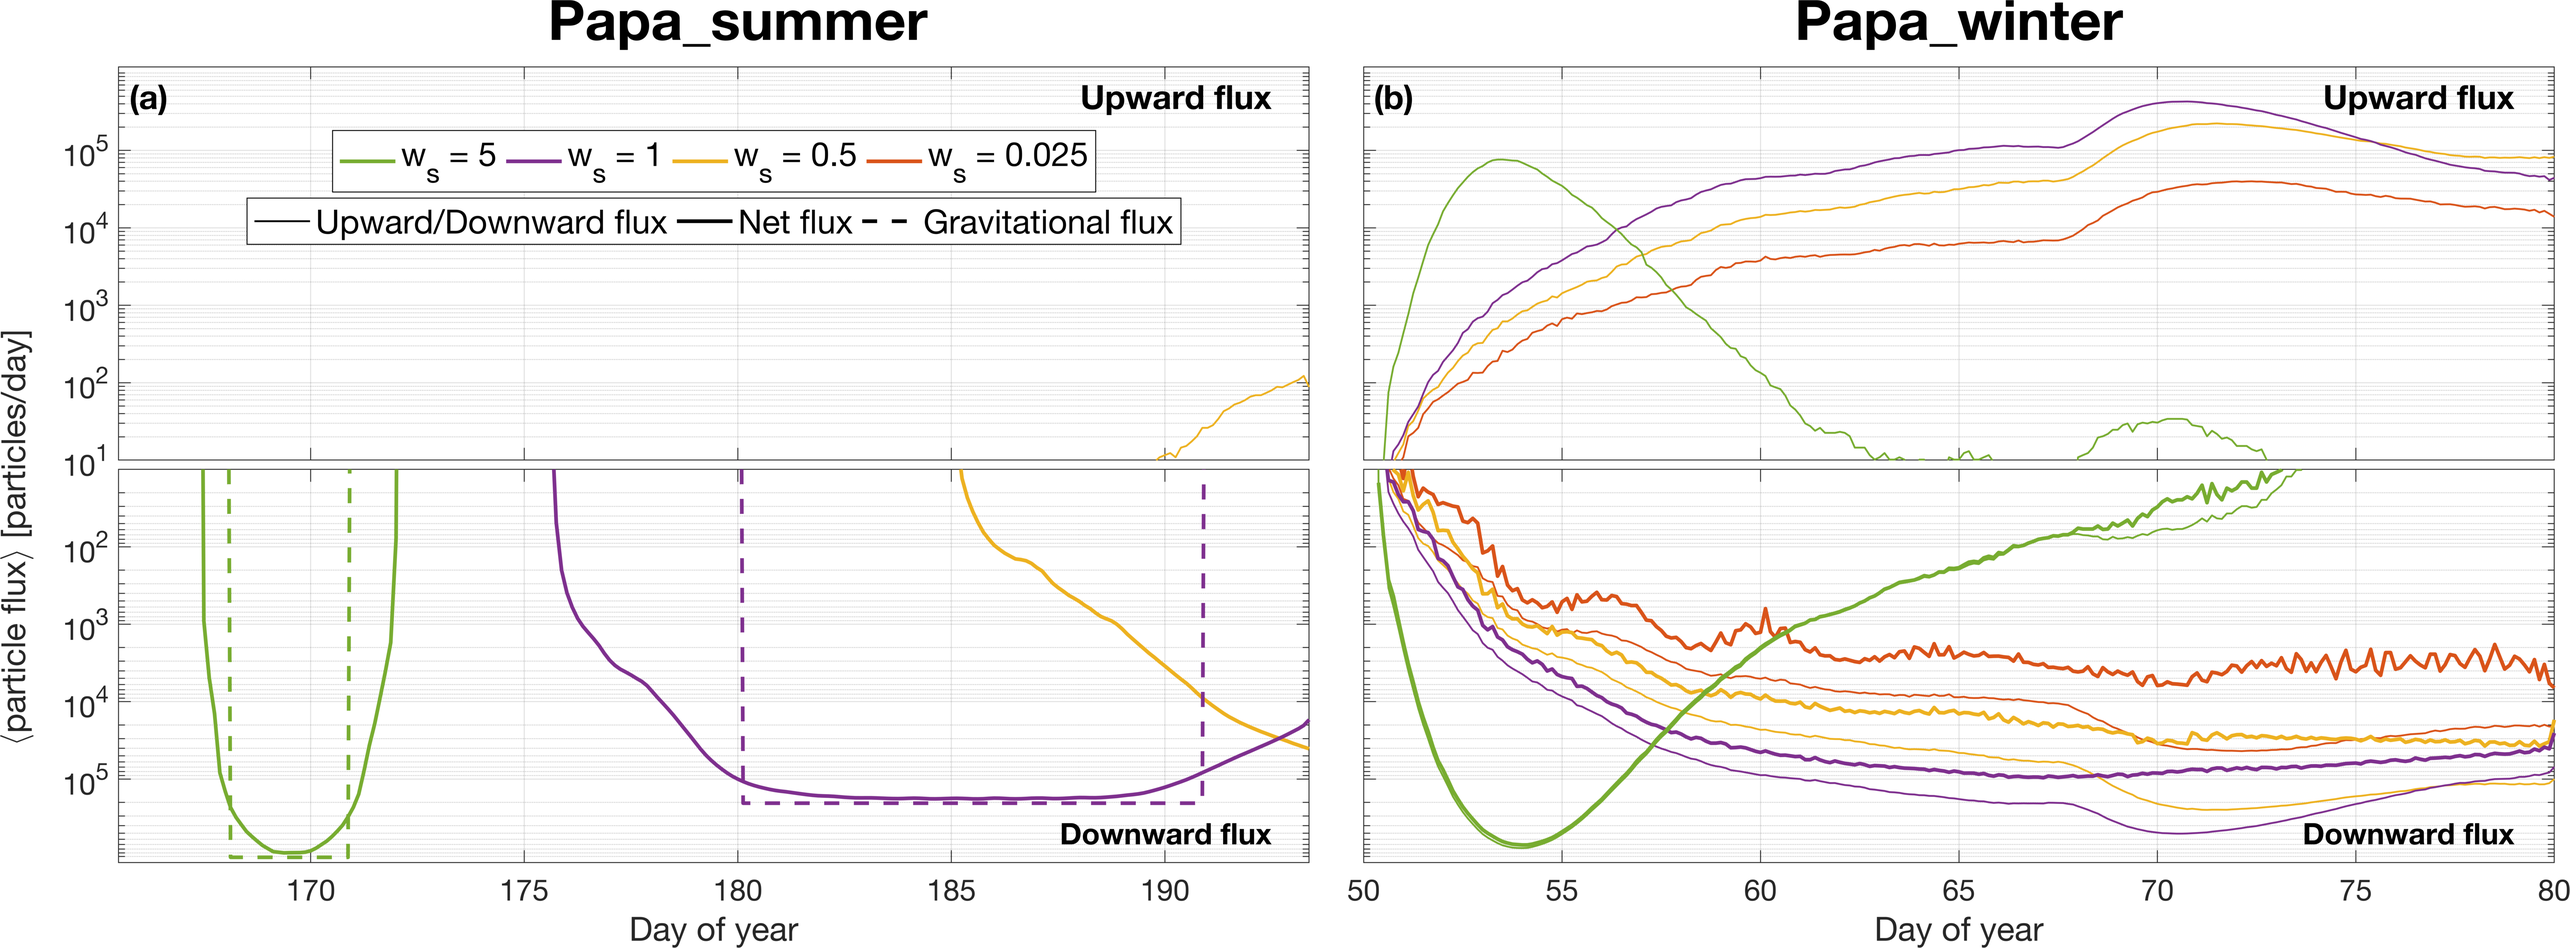
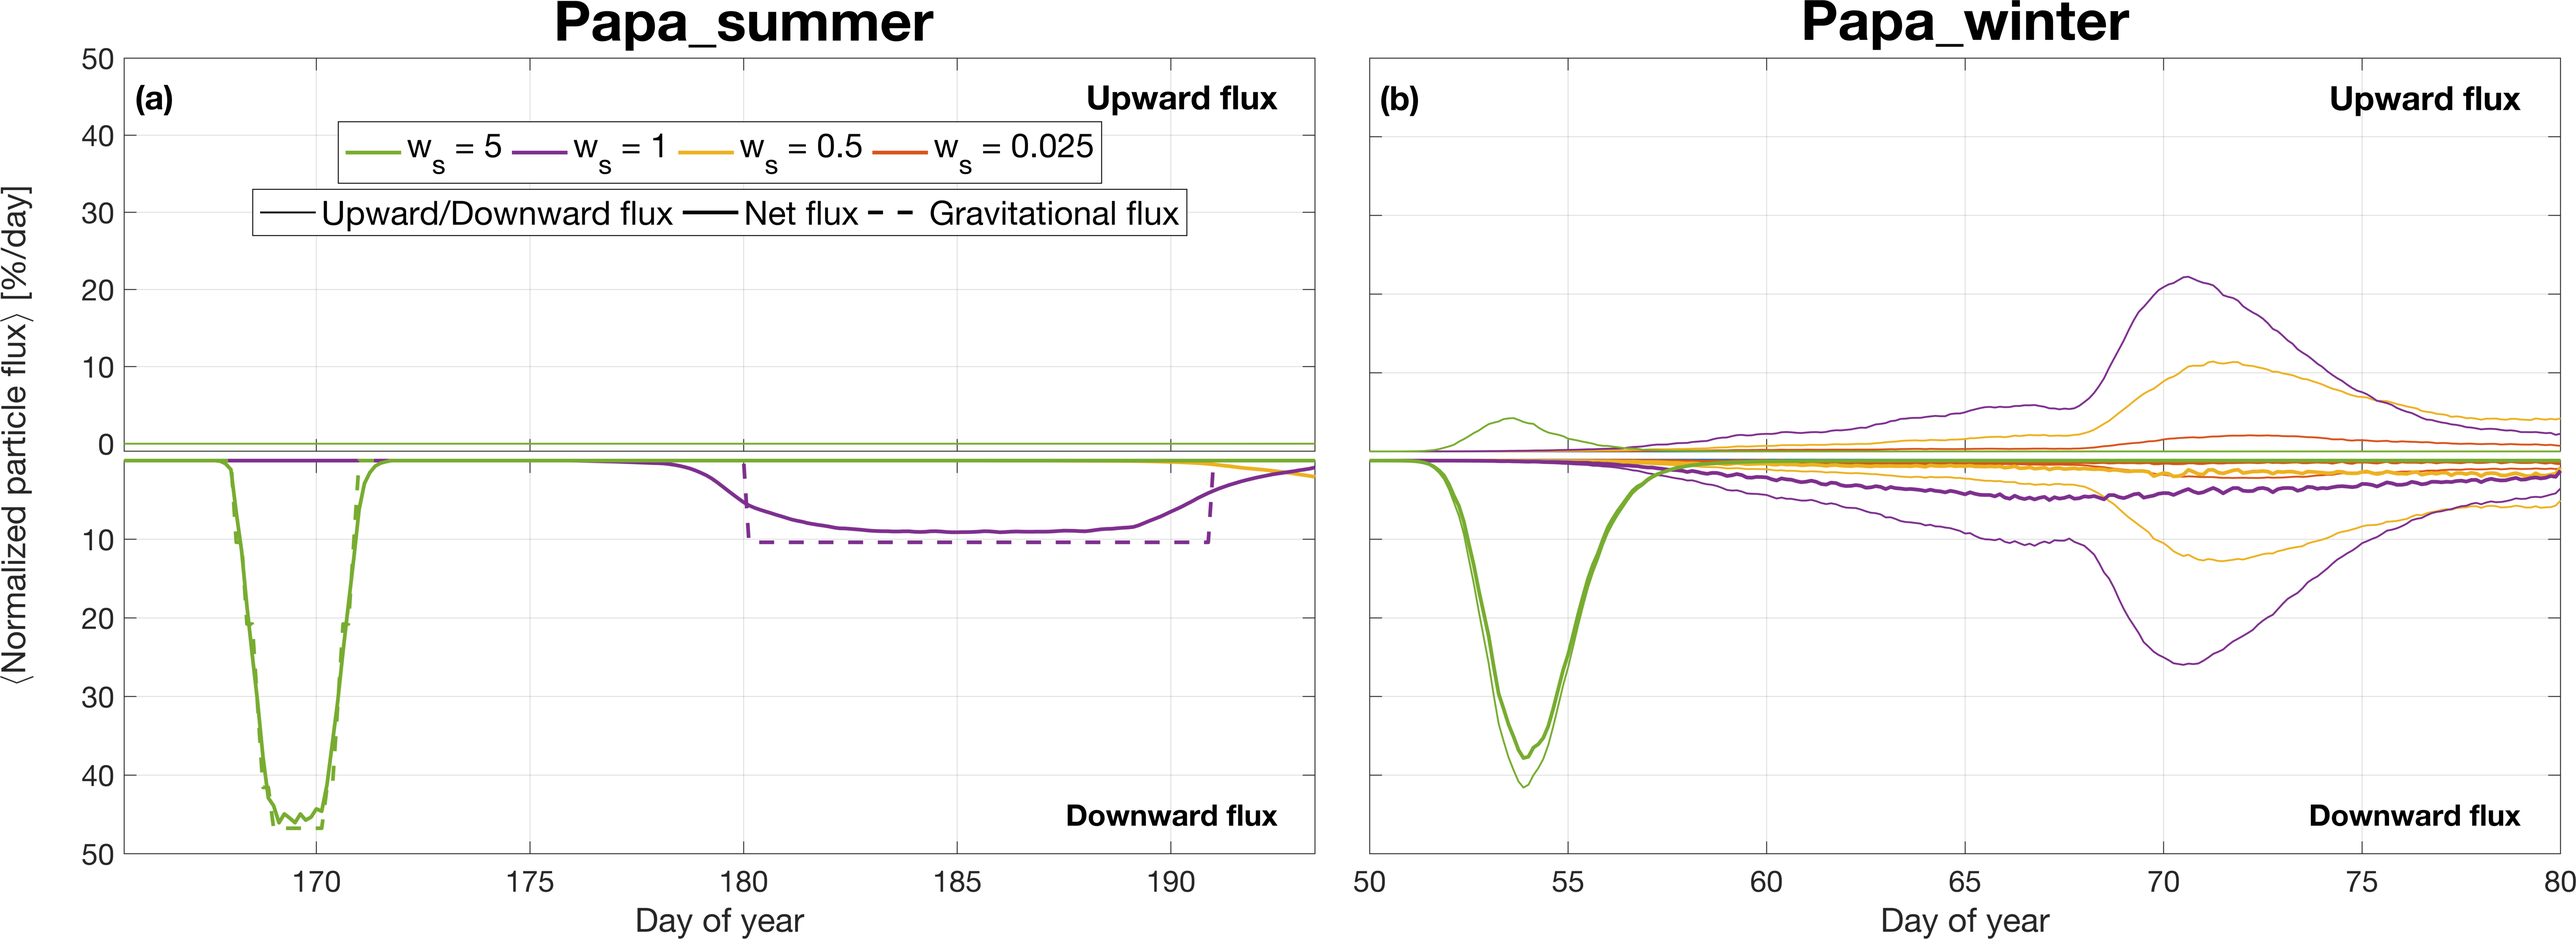
Even newer Fig6
paticle fluxes are normalized by total number of particles to avoid discussion about spectral slope.

diff --git a/figures/code/Fig6_particle_export_flux.m b/figures/code/Fig6_particle_export_flux.m
@@ -47,8 +47,7 @@ for ii = 1:5
     clearvars filenameup delimiter formatSpec fileID dataArray ans
 end; clear ii path
 
-flux_meso_down(flux_meso_down==0) = 1e-10;
-flux_meso_up(flux_meso_up==0) = 1e-10;
+
 %% Compute export anomaly based on expected export computed from sinking
 % velocity and distance from 100m horizon
 
@@ -59,14 +58,13 @@ for ws = [0.025 0.5 1 5]
         ind = find(t0+zz/ws<=time_meso,1,'first');
         grav_flux_meso(ind,wscounter) = N0./11./0.125;
     end; clear zz ind
-    grav_flux_meso(:,wscounter) = smooth(grav_flux_meso(:,wscounter),8);
-    a =find(grav_flux_meso(:,wscounter)~=0,1,'first');
-    b = find(grav_flux_meso(:,wscounter)~=0,1,'last');
-    grav_flux_meso(a:b,wscounter) = max(grav_flux_meso(a:b,wscounter));
+    %grav_flux_meso(:,wscounter) = smooth(grav_flux_meso(:,wscounter),12);
+    %a =find(grav_flux_meso(:,wscounter)~=0,1,'first');
+    %b = find(grav_flux_meso(:,wscounter)~=0,1,'last');
+    %grav_flux_meso(a:b,wscounter) = max(grav_flux_meso(a:b,wscounter));
     wscounter = wscounter +1;
 end; clear ws wscounter a b
 
-grav_flux_meso(grav_flux_meso==0) = 1e-10;
 
 %% Then do Papa_submeso
 N0 = 1971717;
@@ -140,37 +138,42 @@ cmap = [0    0.4470    0.7410
 fullfigure
 subplot(3,2,1)
 for ii = 1:5
-    plot(time_meso+105,smooth(flux_meso_up(:,ii)./unique(diff(time_meso)),12),'color',cmap(ii,:),'linewidth',1);
+    plot(time_meso+105,flux_meso_up(:,ii)./unique(diff(time_meso))./N0*100,'color',cmap(ii,:),'linewidth',1);
     hold on; grid on
     theh(ii) = line([0 0],[0 0],'color',cmap(ii,:),'linewidth',2);
 end; clear ii
-set(gca,'yscale','log','xticklabel',{},'fontsize',16,'xlim',[min(time_meso)+105 max(time_meso)+105])
-HH = ylabel('\langleparticle flux\rangle [particles/day]','fontsize',18,'Interpreter','tex');
+set(gca,'yscale','linear','xticklabel',{},'fontsize',16,'xlim',[min(time_meso)+105 max(time_meso)+105])
+HH = ylabel('\langleNormalized particle flux\rangle [%/day]','fontsize',18,'Interpreter','tex');
 POS = get(HH,'position');
 POS(2) = 1;
 set(HH,'position',POS); clear POS
-%plot(time_meso,smooth(grav_flux_meso(:,ii),8),'color',cmap(ii,:),'linestyle','--')
-set(gca,'ylim',[10 12e5],'ytick',[10,100,1000,10000,100000]);
-text(60.75+105,5e5,'(a)','fontweight','b','fontsize',18)
-text(87.5+105,5e5,'Upward flux','fontweight','b','fontsize',18,'HorizontalAlignment','right')
-text(180,5e6,'Papa\_summer','HorizontalAlignment','center','FontWeight','b','FontSize',30)
+set(gca,'ylim',[-1 50],'ytick',0:10:50);
+text(60.75+105,45,'(a)','fontweight','b','fontsize',18)
+text(87.5+105,45,'Upward flux','fontweight','b','fontsize',18,'HorizontalAlignment','right')
+text(180,55,'Papa\_summer','HorizontalAlignment','center','FontWeight','b','FontSize',30)
 
 YLIM = get(gca,'ylim');
 POS = get(gca,'position');
 subplot(3,2,3)
 for ii = 1:5
-    plot(time_meso+105,smooth(flux_meso_down(:,ii)./unique(diff(time_meso)),12),'color',cmap(ii,:),'linewidth',2)
+    plot(time_meso+105,smooth(flux_meso_down(:,ii)./unique(diff(time_meso))/N0*100,8),'color',cmap(ii,:),'linewidth',2)
     hold on; grid on; axis ij
-    plot(time_meso+105,grav_flux_meso(:,ii),'color',cmap(ii,:),'linestyle','--','Linewidth',2)
+    blop = smooth(grav_flux_meso(:,ii)./N0*100,8);
+    if ii == 5
+    blop(29:38) = mean(blop(29:30));
+    elseif ii == 4
+    blop(118:204) = blop(118);
+    end
+    plot(time_meso+105,blop,'color',cmap(ii,:),'linestyle','--','Linewidth',2)
 end; clear ii
 H1 = line([0 0],[0 0],'color','k','linewidth',1);
 H2 = line([0 0],[0 0],'color','k','linewidth',2);
 H3 = line([0 0],[0 0],'color','k','linewidth',2,'linestyle','--');
 POS2 = get(gca,'position');
 POS2(2) = POS(2)-.005-POS2(4);
-set(gca,'ylim',[10 12e5],'ytick',[10,100,1000,10000,100000],'YTickLabel',{'','10^2','10^3','10^4','10^5'},'xlim',[min(time_meso)+105 max(time_meso)+105]);
-text(87.5+105,5e5,'Downward flux','fontweight','b','fontsize',16,'HorizontalAlignment','right')
-set(gca,'yscale','log','ylim',[10 12e5],'position',POS2,'fontsize',16)
+set(gca,'ylim',[0 50],'ytick',10:10:50,'xlim',[min(time_meso)+105 max(time_meso)+105]);
+text(87.5+105,45,'Downward flux','fontweight','b','fontsize',16,'HorizontalAlignment','right')
+set(gca,'yscale','linear','ylim',[0 50],'position',POS2,'fontsize',16)
 xlabel('Day of year','fontsize',18)
 
 % LEGENDS
@@ -186,37 +189,33 @@ set(H,'fontsize',18,'EdgeColor','k','position',[0.1862 0.83 0.2224 0.0208]);clea
 % SUBMESOSCALES
 subplot(3,2,2)
 for ii = 1:5
-    plot(time_submeso,smooth(flux_submeso_up(:,ii)./unique(diff(time_submeso)),12),'color',cmap(ii,:),'linewidth',1)
+    plot(time_submeso,smooth(flux_submeso_up(:,ii)./unique(diff(time_submeso))./N0*100,8),'color',cmap(ii,:),'linewidth',1)
     hold on; grid on
 end; clear ii
-set(gca,'yscale','log','xticklabel',{},'fontsize',16,'xlim',[min(time_submeso) max(time_submeso)])
-%HH = ylabel('\langleparticle flux\rangle [particles/day]','fontsize',18,'Interpreter','tex');
-%POS = get(HH,'position');
-%POS(2) = 1;
-%set(HH,'position',POS); clear POS
+set(gca,'yscale','linear','xticklabel',{},'fontsize',16,'xlim',[min(time_submeso) max(time_submeso)])
 POS = get(gca,'Position');
 POS(1) = 0.48;
 set(gca,'position',POS);
-set(gca,'ylim',[10 12e5],'ytick',[10,100,1000,10000,100000],'yticklabel',{});
-text(50.25,5e5,'(b)','fontweight','b','fontsize',18)
-text(79,5e5,'Upward flux','fontweight','b','fontsize',18,'HorizontalAlignment','right')
-text(65,5e6,'Papa\_winter','HorizontalAlignment','center','FontWeight','b','FontSize',30)
+set(gca,'ylim',[0 50],'ytick',0:10:50,'yticklabel',{});
+text(50.25,45,'(b)','fontweight','b','fontsize',18)
+text(79,45,'Upward flux','fontweight','b','fontsize',18,'HorizontalAlignment','right')
+text(65,55,'Papa\_winter','HorizontalAlignment','center','FontWeight','b','FontSize',30)
 
 YLIM = get(gca,'ylim');
 POS = get(gca,'position');
 subplot(3,2,4)
 for ii = 1:5
-    plot(time_submeso,smooth(flux_submeso_down(:,ii)./unique(diff(time_submeso)),12),'color',cmap(ii,:),'linewidth',1)
+    plot(time_submeso,smooth(flux_submeso_down(:,ii)./unique(diff(time_submeso))./N0*100,8),'color',cmap(ii,:),'linewidth',1)
     hold on; grid on; axis ij
     blop = flux_submeso_down(:,ii)-flux_submeso_up(:,ii);
-    plot(time_submeso,smooth(blop./unique(diff(time_submeso)),12),'color',cmap(ii,:),'linewidth',2)
+    plot(time_submeso,smooth(blop./unique(diff(time_submeso))./N0*100,8),'color',cmap(ii,:),'linewidth',2)
 end; clear ii
 POS2 = get(gca,'position');
 POS2(2) = POS(2)-.005-POS2(4);
 POS2(1) = POS(1);
-set(gca,'ylim',[10 12e5],'ytick',[10,100,1000,10000,100000],'YTickLabel',{''},'xlim',[min(time_submeso) max(time_submeso)]);
-text(79,5e5,'Downward flux','fontweight','b','fontsize',16,'HorizontalAlignment','right')
-set(gca,'yscale','log','ylim',[10 12e5],'position',POS2,'fontsize',16)
+set(gca,'ylim',[0 50],'ytick',10:10:50,'YTickLabel',{''},'xlim',[min(time_submeso) max(time_submeso)]);
+text(79,45,'Downward flux','fontweight','b','fontsize',16,'HorizontalAlignment','right')
+set(gca,'yscale','linear','ylim',[0 50],'position',POS2,'fontsize',16)
 xlabel('Day of year','fontsize',18)
 
 set(gcf,'color','w')
